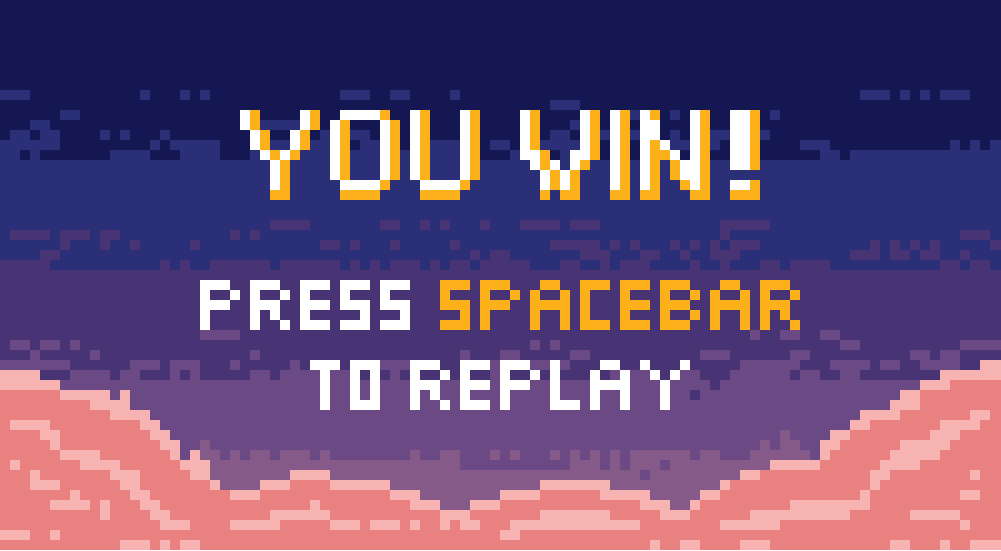
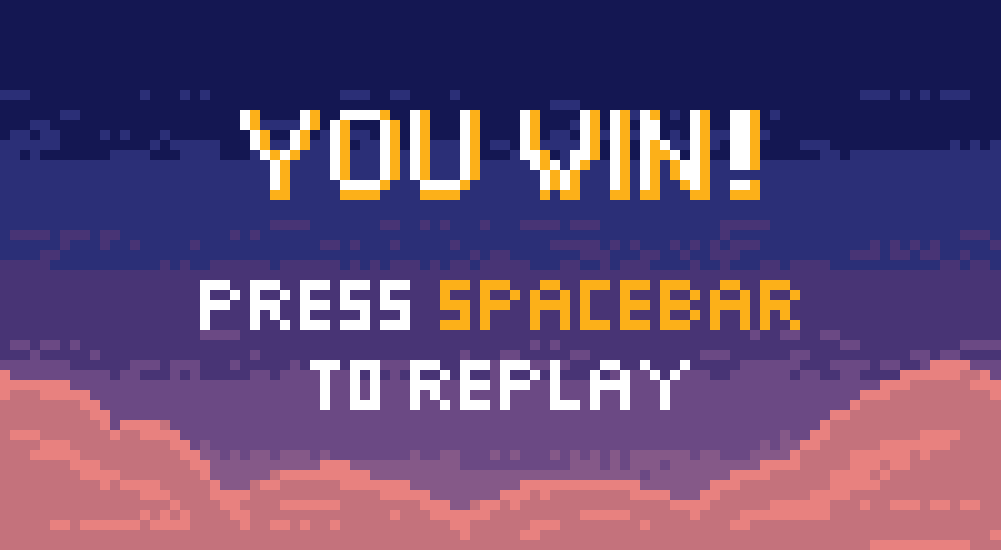
game

diff --git a/sketch/sketch.js b/sketch/sketch.js
@@ -7,6 +7,7 @@ let c4Img;
 let c5Img;
 
 let mImg;
+let winImg;
 
 let over1Img;
 let over2Img;
@@ -40,8 +41,10 @@ function preload(){
   over4Img = loadImage('https://thao-nguyen-design.github.io/sketch/gameover4.png');
   over5Img = loadImage('https://thao-nguyen-design.github.io/sketch/gameover5.png');
   
+  winImg = loadImage('https://thao-nguyen-design.github.io/sketch/win.png');  
   menuImg = loadImage('https://thao-nguyen-design.github.io/sketch/menu.png');  
-  c1Img = loadImage('https://thao-nguyen-design.github.io/sketch/character2.gif');
+  
+  c1Img = loadImage('https://thao-nguyen-design.github.io/sketch/character1.png');
   c2Img = loadImage('https://thao-nguyen-design.github.io/sketch/character2.png');
   c3Img = loadImage('https://thao-nguyen-design.github.io/sketch/character3.png');
   c4Img = loadImage('https://thao-nguyen-design.github.io/sketch/character4.png');
@@ -298,7 +301,7 @@ function draw() {
   }
   
   function levelSix(){
-      background(b1Img);
+      background(winImg);
        lost = true;
            noLoop();
   }
